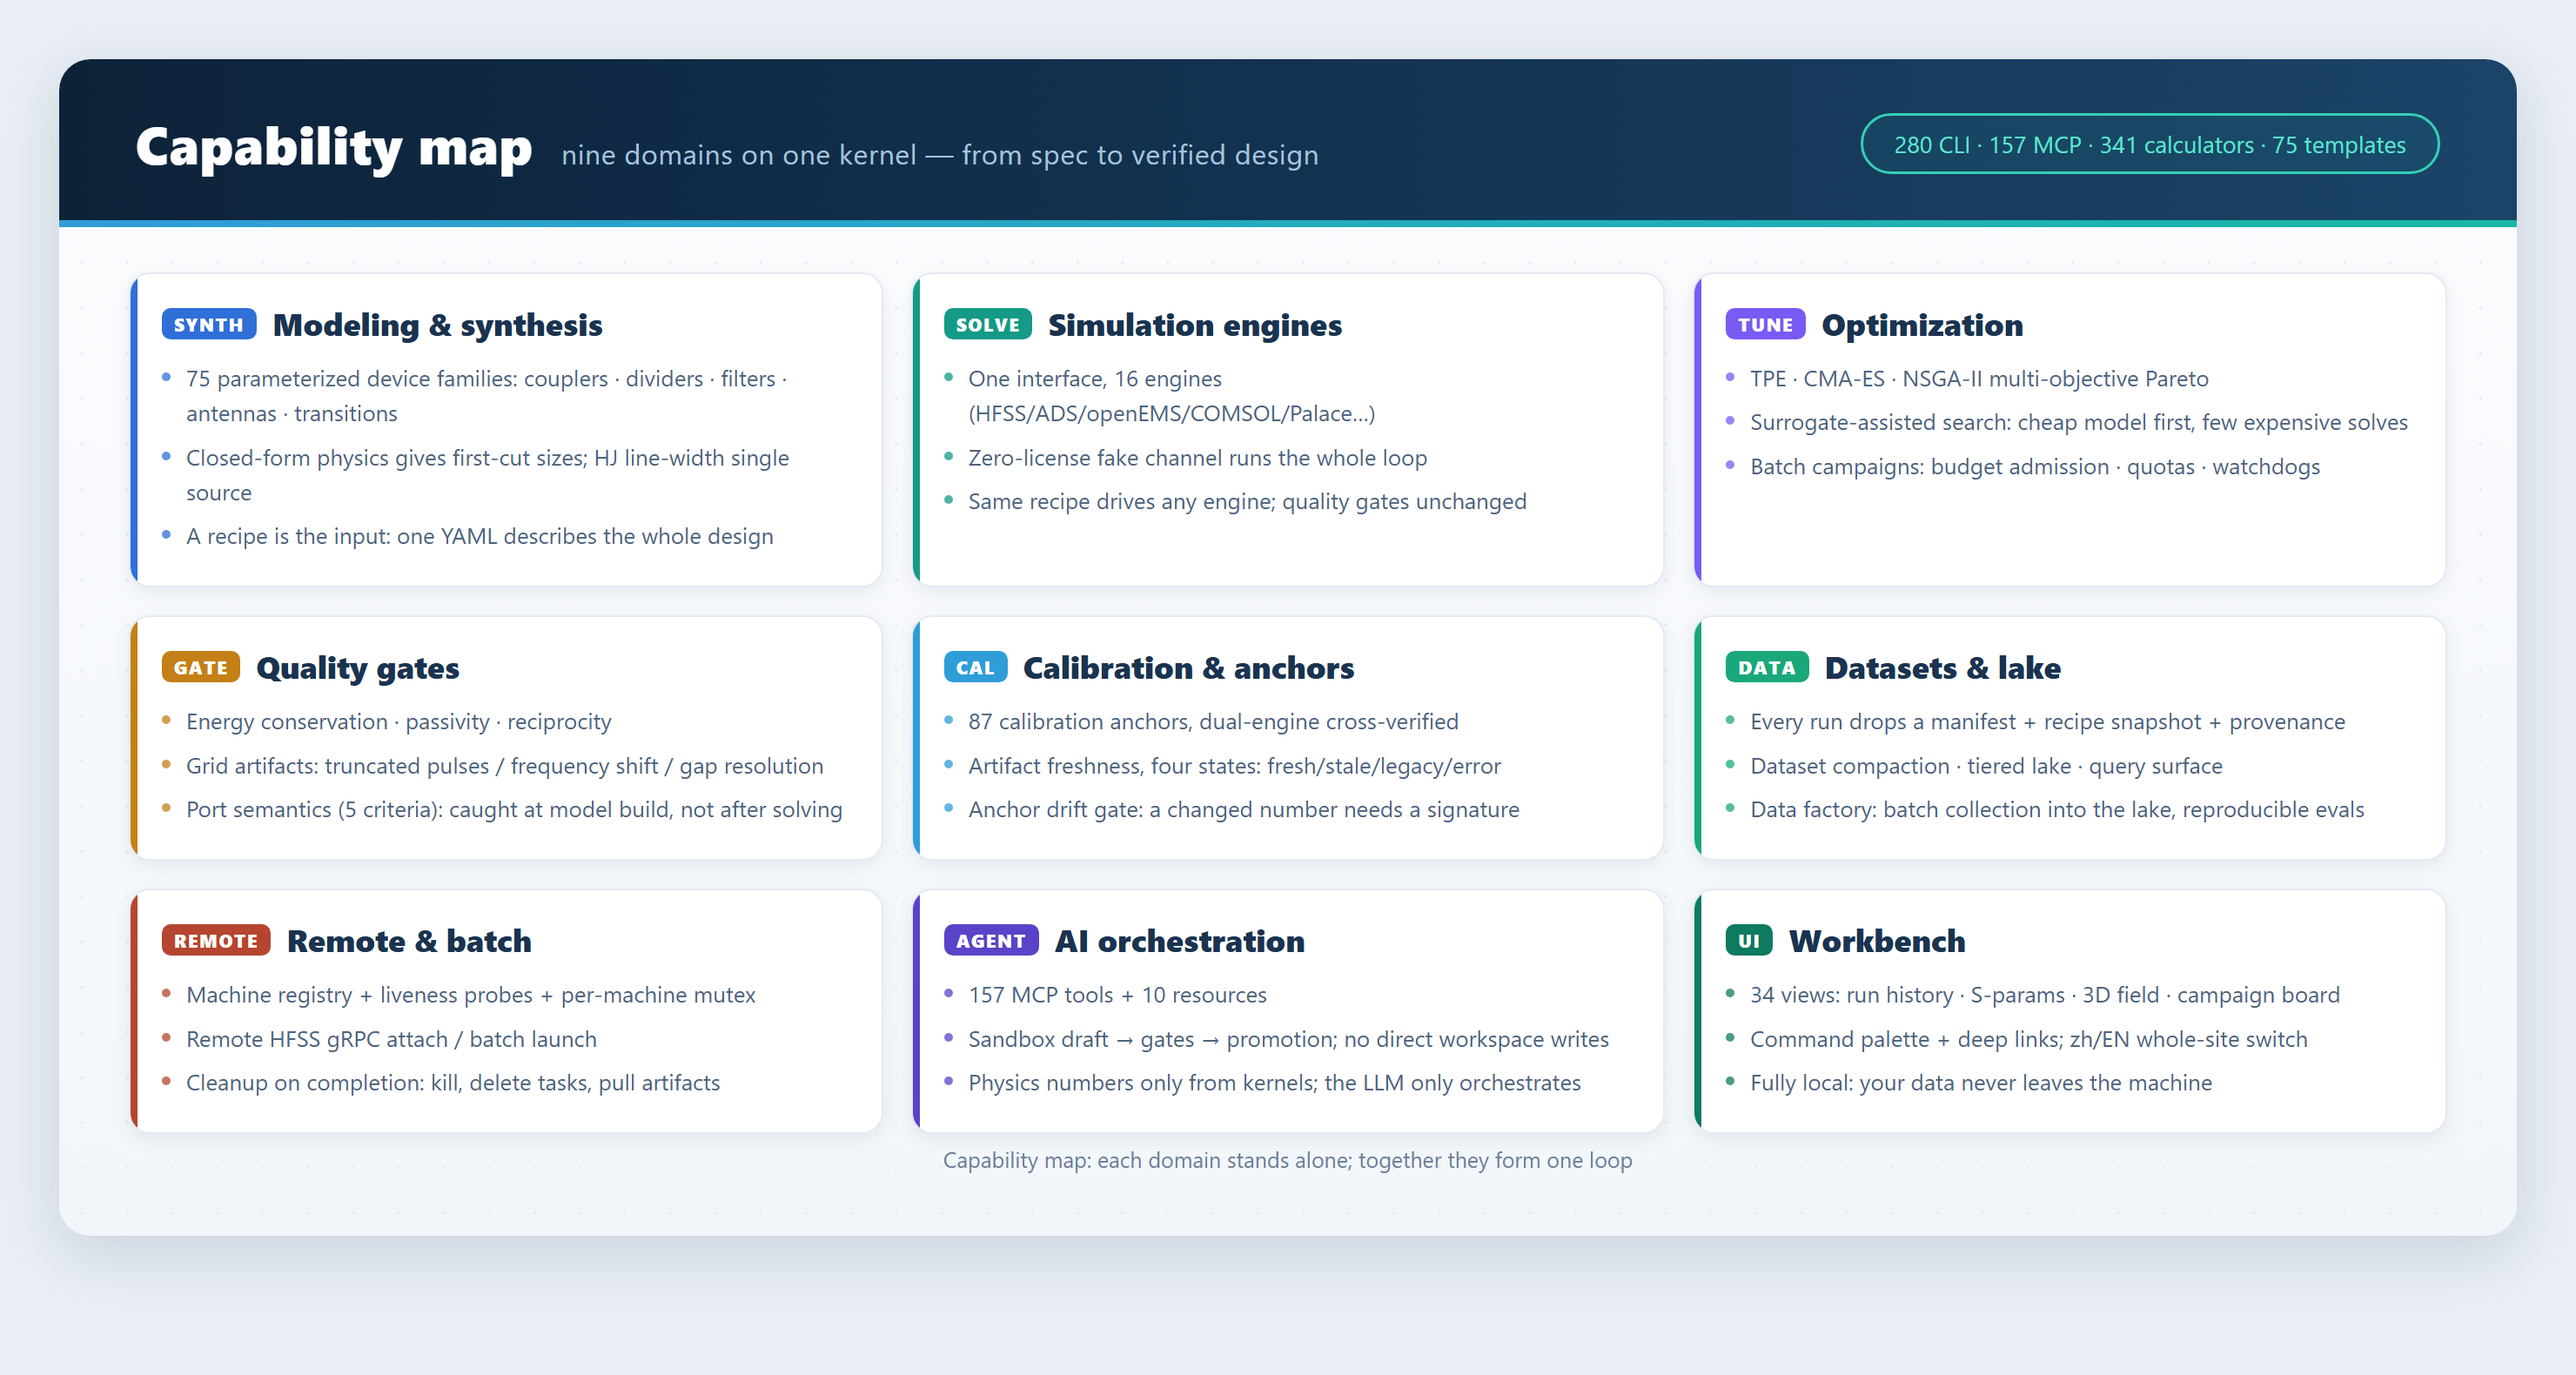
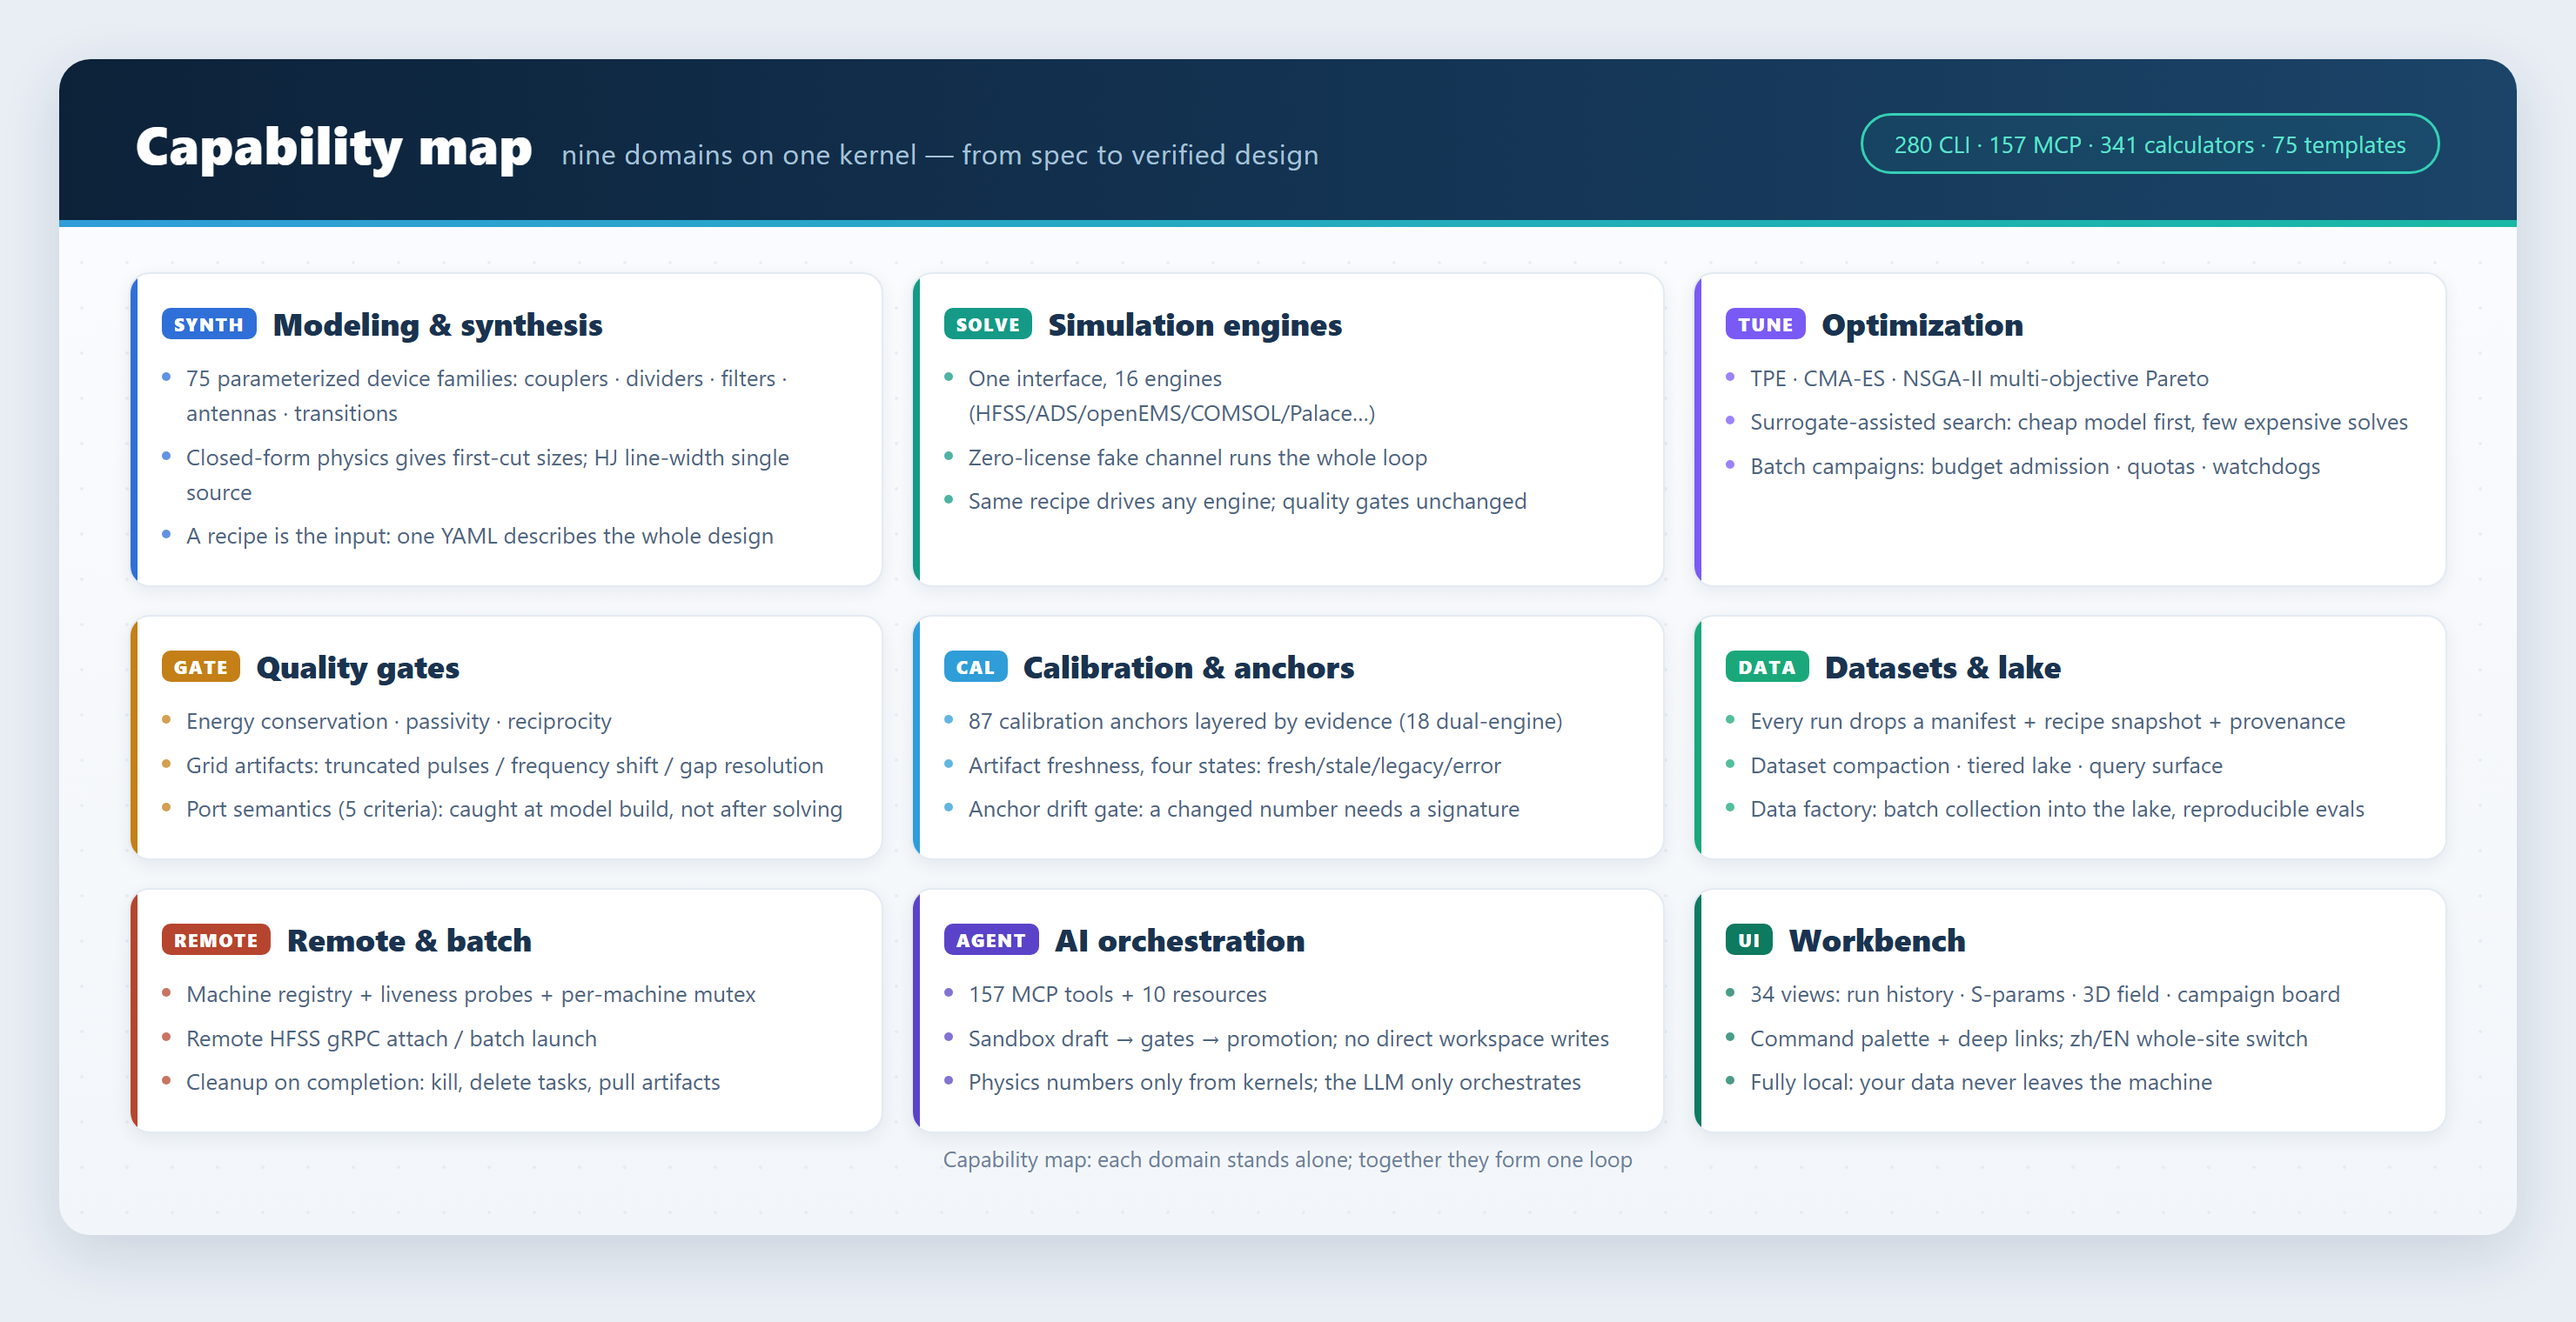
docs: correct the anchor evidence claim — 18 of 87 anchors are HFSS↔openEMS dual-engine backed, 2 HFSS/MMT, 59 closed-form/quasi-static FD, rest marked unsettled (a closed-form anchor is not engine-backed); fix the same wording inside the capability figure and regenerate it

diff --git a/README.md b/README.md
@@ -111,10 +111,13 @@ FAIL with the gate name and the margin — never silently passed.**
 
 ### 1.5 Calibration and anchors
 
-**87 calibration anchors**, each cross-verified between HFSS (the reference) and
-openEMS (free), covering the template library. Artifact freshness has four states
-(fresh/stale/legacy/error): an old file replacing a new run is flagged, and
-`rfauto runs verify` exits 1.
+**87 calibration anchors** cover the template library, layered by evidence
+strength: **18 are backed by an HFSS ↔ openEMS dual-engine comparison**, 2 by
+HFSS/MMT arbitration, and 59 are closed-form or quasi-static FD reference anchors
+(formula source and validity domain on file); the rest are honestly marked as
+unsettled evidence — a closed-form anchor is never dressed up as engine-backed.
+Artifact freshness has four states (fresh/stale/legacy/error): an old file
+replacing a new run is flagged, and `rfauto runs verify` exits 1.
 
 ```bash
 rfauto anchors list                    # values / status / provenance

diff --git a/README.zh-CN.md b/README.zh-CN.md
@@ -101,9 +101,11 @@ rfauto campaign plan --config campaign.yaml   # 多阶段战役
 
 ### 1.5 校准与锚
 
-**87 个标定锚**，每个都在 HFSS（参考基准）与 openEMS（免费）之间做过交叉验证，
-覆盖整个模板库。产物新鲜度四态（fresh/stale/legacy/error）：旧文件顶替新 run 会
-被标红，`rfauto runs verify` 退出码 1。
+**87 个标定锚**覆盖整个模板库，来源按证据强度分层：**18 个由 HFSS 与 openEMS
+双引擎对照背书**，2 个经 HFSS/MMT 仲裁，59 个是闭式或准静态 FD 参考锚（公式出处
+与适用域逐条在档），其余如实标注证据未结——不把闭式锚说成引擎背书。
+产物新鲜度四态（fresh/stale/legacy/error）：旧文件顶替新 run 会被标红，
+`rfauto runs verify` 退出码 1。
 
 ```bash
 rfauto anchors list                    # 锚注册表：值 / 状态 / 来源
